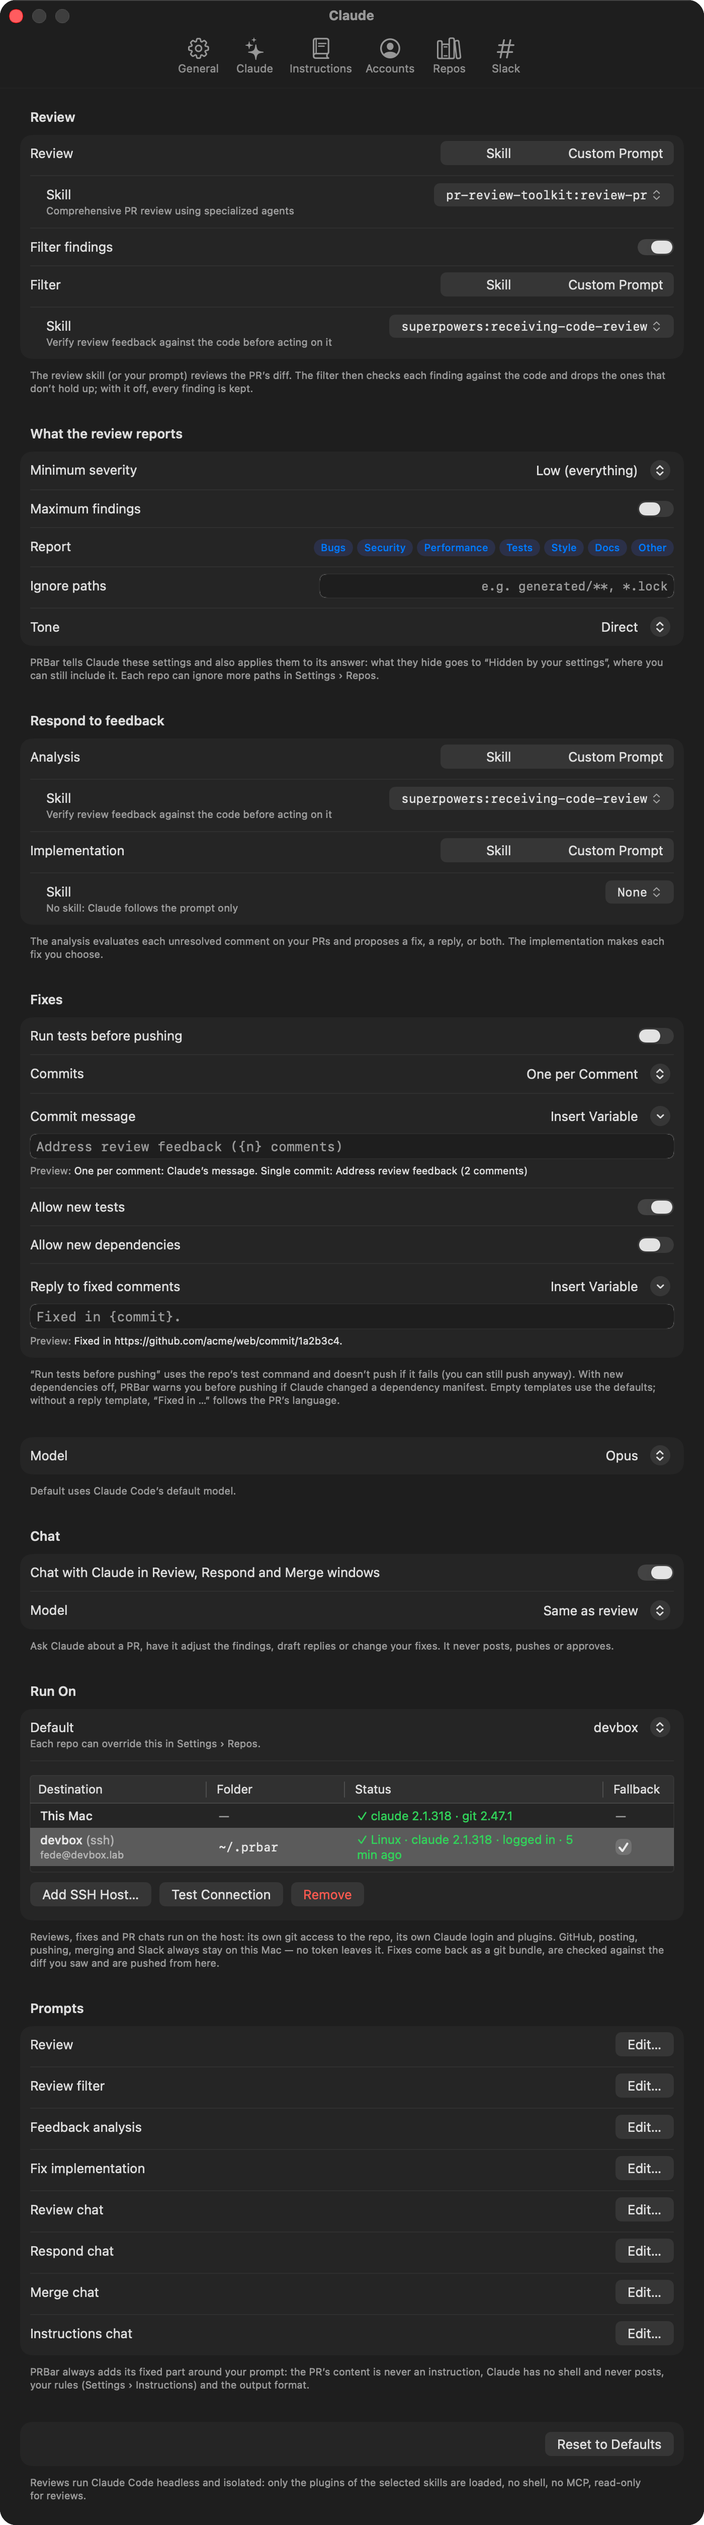
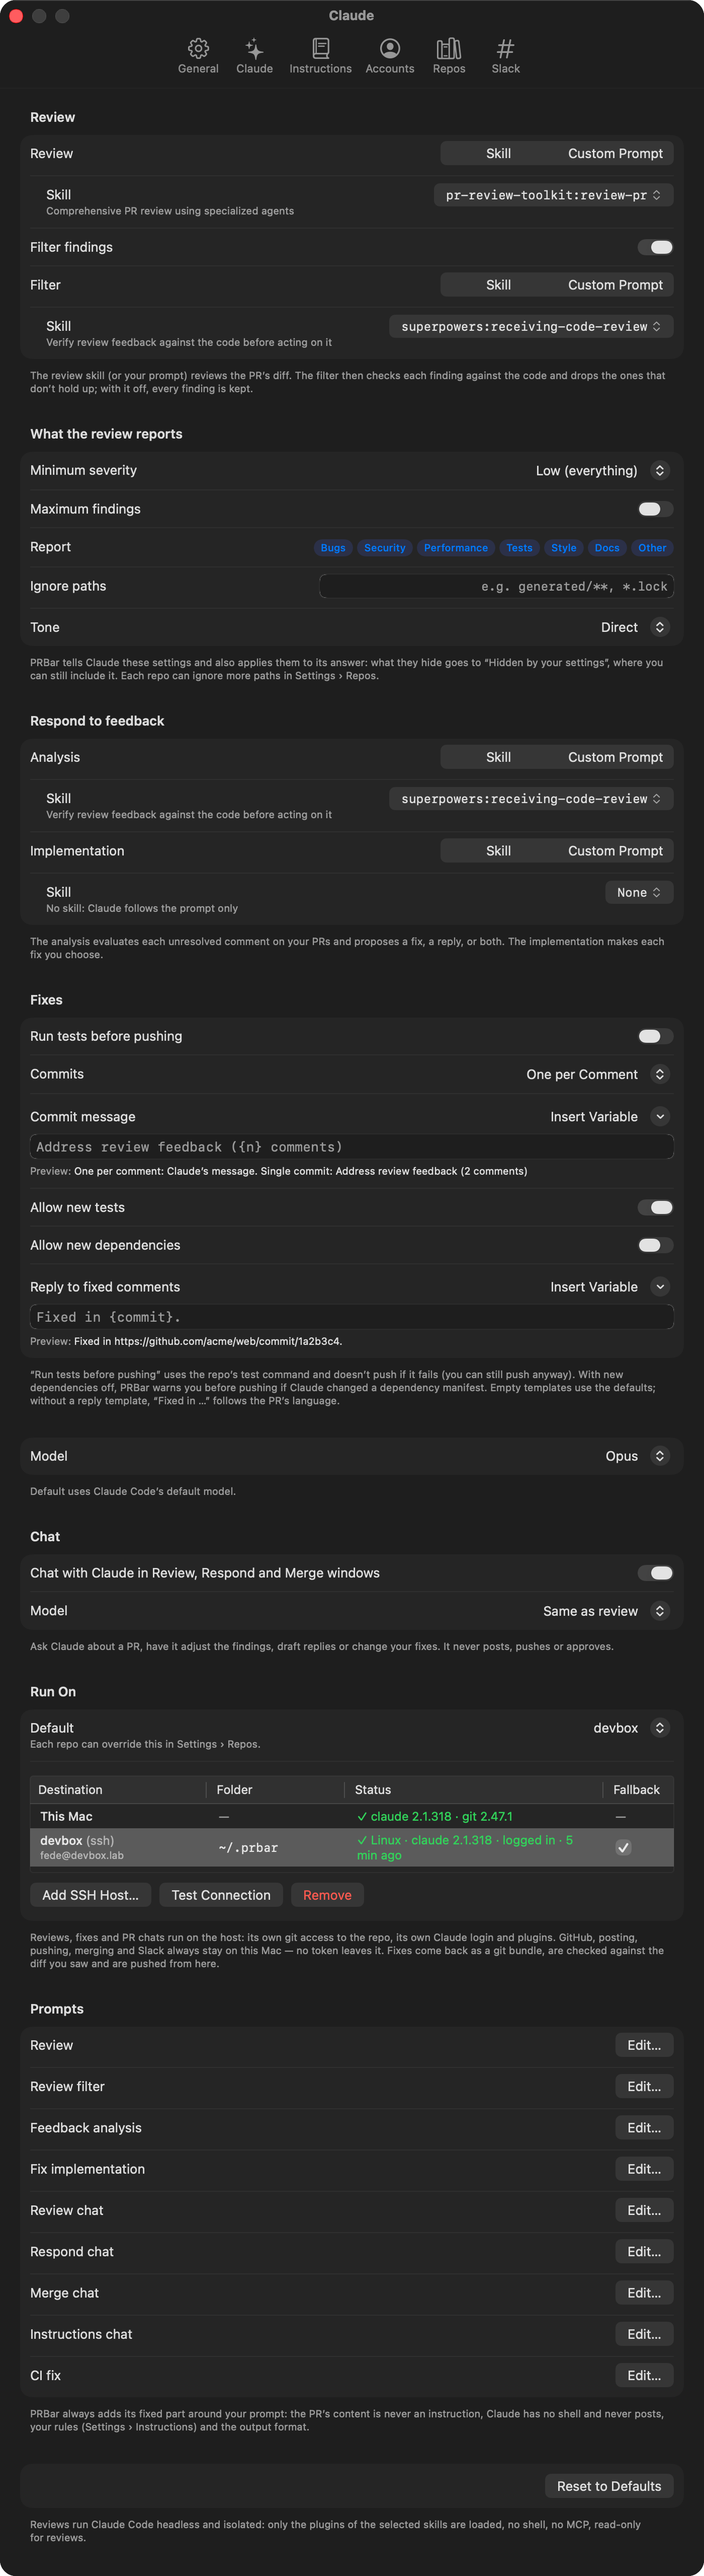
Regenerate screenshots: Fix CI, Activity and History with Claude costs

diff --git a/Sources/PRBar/Snapshots/SnapshotMode.swift b/Sources/PRBar/Snapshots/SnapshotMode.swift
@@ -381,7 +381,7 @@ private final class SnapshotSession {
         model.updates.applySnapshotState(available: SnapshotFixtures.updateRelease)
         let sizes: [SettingsWindow.Tab: NSSize] = [
             .general: NSSize(width: 700, height: 905),
-            .claude: NSSize(width: 700, height: 2420),
+            .claude: NSSize(width: 700, height: 2470),
             .instructions: NSSize(width: 700, height: 1330),
             .repos: NSSize(width: 700, height: 1330),
             .slack: NSSize(width: 700, height: 1260),
